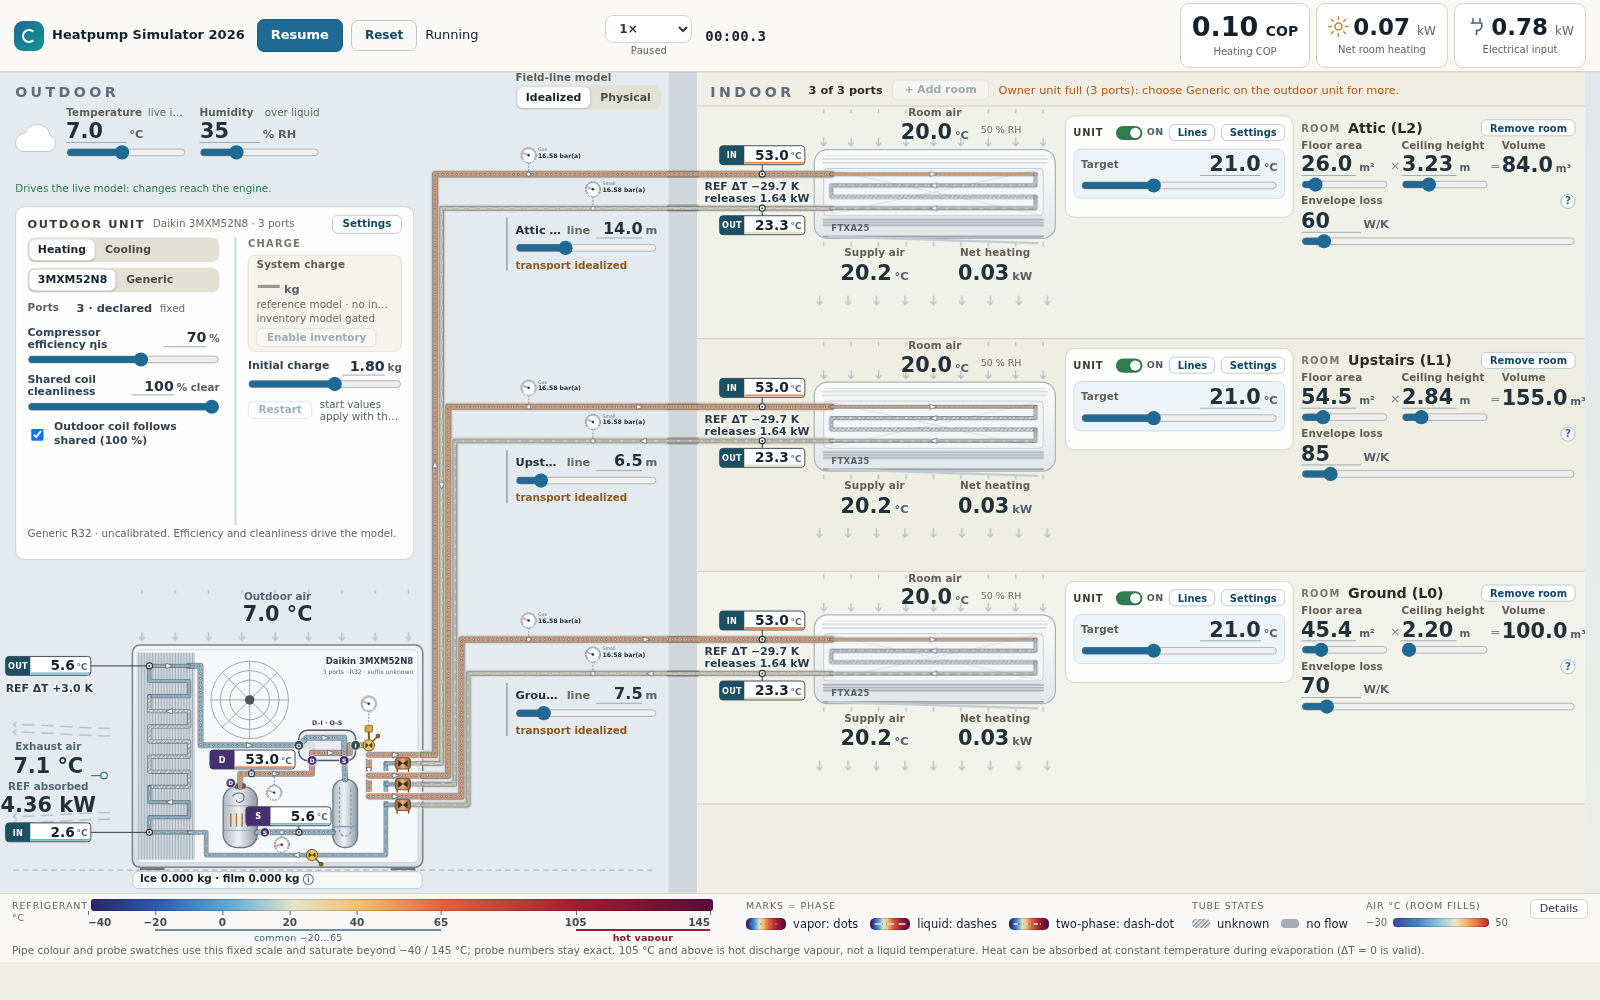
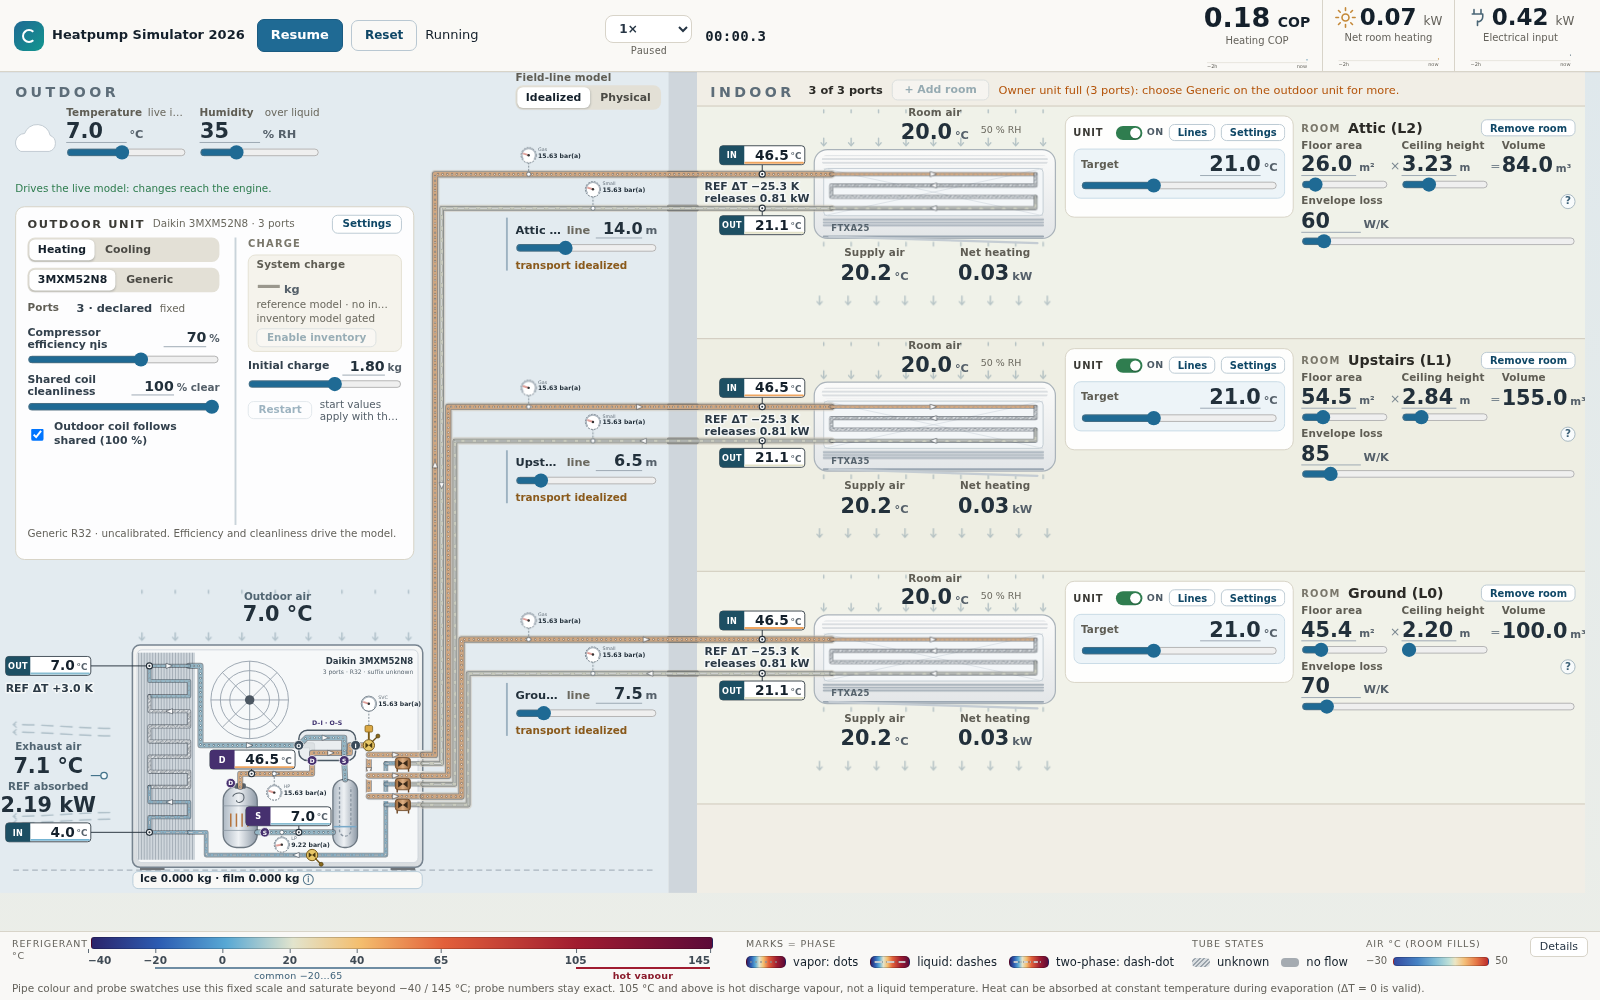
Fix zoom layout, add thermostat restart margin and two-hour metric trends

diff --git a/src/chrome.ts b/src/chrome.ts
@@ -1,7 +1,8 @@
 import { AIR_RAMP_MAX, AIR_RAMP_MIN, TEMP_RAMP_MAX, TEMP_RAMP_MIN, TEMP_RAMP_TICKS, airRampCss, flowMode, tempRampCss } from './circuit';
 import { setHtml } from './controls';
 import type { Field } from './controls';
-import { escapeHtml, fmt, html, setText, svg } from './dom';
+import { escapeHtml, fmt, html, setAttr, setText, svg } from './dom';
+import { TrendHistory } from './trends';
 import { PREVIEW_BANNER, fixtureFor } from './fixtures';
 import { simulation } from './runtime/view';
 import { ICE_START_KG, currentReadings, liveStatus, store } from './state';
@@ -63,6 +64,8 @@ function pick<T extends string | number>(o: {
 }
 
 export function createHeader(): Header {
+  const history = new TrendHistory();
+  let historyEpoch = store.resetEpoch;
   const fields: Field[] = [];
   const speed = pick<SpeedFactor>({
     label: 'Requested speed',
@@ -87,11 +90,16 @@ export function createHeader(): Header {
   const time = html('output', { class: 'time', 'aria-label': 'Simulation time' }, '00:00.0');
 
   // Headline readings: label below value, fixed-width cells so the header does not reflow as numbers change.
-  const metric = (unit: string | null): { root: HTMLElement; k: HTMLElement; v: HTMLElement } => {
+  const metric = (unit: string | null) => {
     const k = html('span', { class: 'k' }, '');
     const v = html('b', { class: 'v' }, '—');
-    const root = html('div', { class: 'hm' }, k, html('span', { class: 'vl' }, v, ...(unit ? [html('i', {}, unit)] : [])));
-    return { root, k, v };
+    const trendTitle = svg('title', {}, 'Last 2 hours of simulated time; latest reading in each 10-second bin; no history yet');
+    const trendPath = svg('path', { class: 'trend-line', d: '' });
+    const trend = svg('svg', { class: 'hm-trend', viewBox: '0 0 112 22', role: 'img', 'aria-label': 'Last 2 hours of simulated time' },
+      trendTitle, svg('path', { class: 'trend-baseline', d: 'M1 15H111' }), trendPath,
+      svg('text', { x: 1, y: 21, class: 'trend-time' }, '−2h'), svg('text', { x: 111, y: 21, 'text-anchor': 'end', class: 'trend-time' }, 'now'));
+    const root = html('div', { class: 'hm' }, k, html('span', { class: 'vl' }, v, ...(unit ? [html('i', {}, unit)] : [])), trend);
+    return { root, k, v, trend, trendTitle, trendPath };
   };
   const mCop = metric('COP');
   mCop.root.classList.add('hm-cop');
@@ -138,8 +146,24 @@ export function createHeader(): Header {
 
       sun.style.display = s.cfg.mode === 'heating' ? '' : 'none';
       snow.style.display = s.cfg.mode === 'cooling' ? '' : 'none';
+      metrics.dataset.mode = s.cfg.mode;
       note.hidden = live && s.ui.experience === 'live' && currentReadings(s).live?.usable === true && currentReadings(s).live?.kind !== 'updating';
       const rd = currentReadings(s);
+      const cleared = historyEpoch !== store.resetEpoch;
+      if (cleared) { history.clear(); historyEpoch = store.resetEpoch; }
+      const output = simulation.status.output;
+      const accepted = live && simulation.status.state === 'ready' && output && output.state !== 'fault';
+      const changed = accepted ? history.accept(output.simulatedSeconds, [rd.cop, rd.roomKwTotal, rd.electricalKw], s.cfg.mode) : false;
+      for (const [i, m] of [mCop, mHeat, mElec].entries()) {
+        if (cleared || changed || !live || !m.trend.dataset.source || m.trend.dataset.source !== s.ui.experience) {
+          const plot = history.plot(i as 0 | 1 | 2);
+          setAttr(m.trendPath, 'd', live ? plot.path : '');
+          setText(m.trendTitle, live
+            ? `${i === 0 ? rd.copLabel : i === 1 ? rd.roomKwLabel : 'Electrical input'}: last 2 hours of simulated time, latest reading in each 10-second bin. ${plot.count ? `Scale ${fmt(plot.minimum, 2)}…${fmt(plot.maximum, 2)} ${i === 0 ? 'COP' : 'kW'}.` : 'No accepted history yet.'} Missing readings are gaps.`
+            : 'Illustrative snapshot; no simulated history.');
+          m.trend.dataset.source = s.ui.experience;
+        }
+      }
       setText(mCop.k, rd.copLabel);
       setText(mHeat.k, rd.roomKwLabel);
       setText(mCop.v, rd.cop === null ? '—' : fmt(rd.cop, 2));

diff --git a/src/style.css b/src/style.css
@@ -32,6 +32,7 @@ h2, h3, h4, h5, p, ul, dl { margin: 0; }
 
 /* Header + workbench only: advanced controls live in equipment settings. */
 .app { display: grid; grid-template-rows: var(--h-top) minmax(0, 1fr); height: 100vh; min-height: 720px; min-width: 1280px; overflow: hidden; }
+.workbench { display: grid; min-width: 0; min-height: 0; }
 
 /* ---------- top bar ---------- */
 /* One light header: brand, playback/status group, headline readings. */
@@ -54,21 +55,28 @@ h2, h3, h4, h5, p, ul, dl { margin: 0; }
 .hd-reset { padding: 5px 10px; font-size: 12px; }
 
 /* Headline readings: fixed cells so changing digits never move neighbouring controls. */
-.hd-metrics { display: flex; gap: 6px; flex: none; }
- .hm { display: flex; flex-direction: column; align-items: center; justify-content: center; gap: 3px; width: 132px; padding: 7px 10px; border-radius: 9px; background: #fff; border: 1px solid var(--line); min-width: 0; }
+.hd-metrics { display: flex; align-self: stretch; flex: none; }
+.hm { display: flex; flex-direction: column; align-items: center; justify-content: center; gap: 1px; width: 132px; padding: 2px 10px; min-width: 0; }
+.hm + .hm { border-left: 1px solid var(--line); }
 .hm:first-child { width: 130px; }
 .hm .vl { display: flex; order: 0; align-items: baseline; gap: 4px; white-space: nowrap; }
 .hm .v { font: 750 23px/1.15 var(--font); font-variant-numeric: tabular-nums; }
 .hm i { font-size: 12px; }
 .hm-cop .v { font-size: 27px; font-weight: 850; }
 .hm-cop i { font-size: 14px; font-weight: 750; color: var(--ink); }
-.hm .k { order: 1; font-size: 10px; color: var(--muted); white-space: nowrap; }
+.hm .k { order: 1; max-width: 100%; font-size: 10px; color: var(--muted); white-space: nowrap; overflow: hidden; text-overflow: ellipsis; }
 .hm-icon { align-self: center; flex: none; width: 21px; height: 21px; fill: none; stroke: currentColor; stroke-width: 1.8; stroke-linecap: round; stroke-linejoin: round; color: #496575; }
 .hm-sun { color: #c48837; }
 .hm-snow { color: #4b8bab; }
 /* Held = previous calculated step shown while new inputs wait for the next step. */
-.hd-metrics[data-held="1"] .hm { border-style: dashed; background: #f6f9fb; }
 .hd-metrics[data-held="1"] .v { color: var(--muted); }
+.hm-trend { display: block; width: 100%; height: 20px; flex: none; overflow: visible; order: 2; }
+.hm-trend .trend-baseline { stroke: #d8d4c9; stroke-width: .6; }
+.hm-trend .trend-time { font: 5.5px var(--font); fill: var(--muted); }
+.hm-trend .trend-line { fill: none; stroke: #1f6a94; stroke-width: 1.3; stroke-linejoin: round; stroke-linecap: round; }
+.hm:nth-child(2) .trend-line { stroke: #c48837; }
+.hd-metrics[data-mode="cooling"] .hm:nth-child(2) .trend-line { stroke: #4b8bab; }
+.hm:nth-child(3) .trend-line { stroke: #496575; }
 
 .hd-status { flex: none; width: 172px; display: flex; flex-direction: column; gap: 4px; }
 .hd-badges { display: flex; min-width: 0; }
@@ -270,6 +278,7 @@ select { width: 100%; padding: 6px 8px; border: 1px solid var(--line); border-ra
 .scene[data-zoom="outdoor"] .dl { opacity: 1; }
 .scene[data-zoom="rooms"] .room .dl { opacity: 1; }
 .scene[data-zoom^="room:"] .room .dl { opacity: 1; }
+.taps .g-val, .taps .g-tag { opacity: 1; }
 [data-zoom-target] { cursor: zoom-in; }
 [data-zoom-target]:focus-visible { outline: none; }
 .zone-out:focus-visible, .zone-in:focus-visible { stroke: var(--focus); stroke-width: 2; }

diff --git a/src/trends.ts b/src/trends.ts
@@ -1,0 +1,44 @@
+export type TrendValues = readonly [number | null, number | null, number | null];
+interface Sample { seconds: number; values: TrendValues; series: string }
+
+/** Accepted physical time only. One latest reading per ten-second bin bounds the two-hour history. */
+export class TrendHistory {
+  readonly windowSeconds = 7200;
+  readonly sampleSeconds = 10;
+  private samples: Sample[] = [];
+  private latest = -Infinity;
+
+  clear(): void { this.samples = []; this.latest = -Infinity; }
+
+  accept(seconds: number, values: TrendValues, series: string): boolean {
+    if (!Number.isFinite(seconds) || seconds < 0 || seconds <= this.latest) return false;
+    this.latest = seconds;
+    const clean = (v: number | null): number | null => v !== null && Number.isFinite(v) ? v : null;
+    const sample: Sample = { seconds, values: [clean(values[0]), clean(values[1]), clean(values[2])], series };
+    const last = this.samples.at(-1);
+    if (last && Math.floor(last.seconds / this.sampleSeconds) === Math.floor(seconds / this.sampleSeconds)) {
+      this.samples[this.samples.length - 1] = sample;
+    } else this.samples.push(sample);
+    this.samples = this.samples.filter(s => s.seconds >= seconds - this.windowSeconds);
+    return true;
+  }
+
+  plot(index: 0 | 1 | 2): { path: string; minimum: number; maximum: number; count: number } {
+    const values = this.samples.map(s => s.values[index]).filter((v): v is number => v !== null);
+    const minimum = Math.min(0, ...values), maximum = Math.max(1, ...values);
+    let path = '', previous: Sample | null = null;
+    for (const sample of this.samples) {
+      const value = sample.values[index];
+      if (value === null) { previous = null; continue; }
+      const x = 1 + 110 * (sample.seconds - (this.latest - this.windowSeconds)) / this.windowSeconds;
+      const y = 14 - 12 * (value - minimum) / (maximum - minimum);
+      // A missing bin or different operating mode has no fabricated connecting segment.
+      const connected = previous && previous.series === sample.series && sample.seconds - previous.seconds <= 2 * this.sampleSeconds;
+      const position = `${x.toFixed(2)} ${y.toFixed(2)}`;
+      path += `${connected ? 'L' : 'M'}${position}`;
+      if (!connected) path += `L${position}`; // a round-capped point also shows very short histories
+      previous = sample;
+    }
+    return { path, minimum, maximum, count: values.length };
+  }
+}

diff --git a/src/engine/engine.ts b/src/engine/engine.ts
@@ -2,6 +2,7 @@ import { Properties, DomainError } from './properties.ts';
 import { solveCycle } from './cycle.ts';
 import { ChargeCircuit, type ChargeCandidate, type ChargeBoundary, type ChargeNumerics } from './charge.ts';
 import { driveStep, driveRatioThresholds, newDriveState, type DriveState } from './drive.ts';
+import { thermostatDemand } from './thermostat.ts';
 import { inventoryCycle } from './charge-output.ts';
 import { airExchange, equilibrateExhaust } from './air.ts';
 import { deriveOutdoorFilm, filmEnthalpy, FUSION_JKG, WATER_CP_JKGK } from './film.ts';
@@ -168,7 +169,7 @@ export class HeatPumpEngine {
     const tRooms = this.rooms.map(r => this.properties.airT(r.airEnthalpyJ / r.dryAirMassKg, r.humidityRatio, p));
     const previousActive = [...this.active];
     const errors = config.rooms.map((room, i) => config.mode === 'heating' ? room.setpointC - tRooms[i] : tRooms[i] - room.setpointC);
-    this.active = config.rooms.map((room, i) => room.enabled && errors[i] > (this.active[i] ? -config.control.thermostatDeadbandK : config.control.thermostatDeadbandK));
+    this.active = config.rooms.map((room, i) => thermostatDemand(room.enabled, errors[i], this.active[i], config.control.thermostatDeadbandK));
     if (!config.rooms.some(room => room.enabled)) this.abortUnavailableCircuit();
     if (this.state === 'reversing' && this.stateTime >= config.control.reversalSeconds) this.transition(config.mode === 'heating' && before.iceKg > config.control.defrostIceThresholdKg ? 'defrost' : 'idle');
     if (this.state === 'draining' && this.stateTime >= config.control.drainageDwellSeconds) { this.transition('reversing'); this.heatingRuntime = 0; }

diff --git a/src/engine/types.ts b/src/engine/types.ts
@@ -31,7 +31,10 @@ export interface EngineConfig {
   rooms: RoomConfig[];
   compressor: { displacementM3rev: number; speedMinRps: number; speedMaxRps: number; isentropicEfficiency: number; volumetricEfficiency: number; driveEfficiency: number; superheatK: number; subcoolK: number; maxDischargeC: number; maxPressureRatio: number };
   outdoor: { cleanFraction?: number; airMassFlowKgs: number; fanPowerW: number; airConductanceWK: number; refrigerantConductanceWK: number; naturalAirConductanceWK: number; metalCapacityJK: number; depositionAreaM2: number; frostDensityKgm3: number; frostConductivityWmK: number; finGapM: number; drainageSeconds: number };
-  control: { controlsW: number; proportionalSpeedRpsK: number; thermostatDeadbandK: number; minOnSeconds: number; minOffSeconds: number; reversalSeconds: number; defrostMinHeatingSeconds: number; defrostIceThresholdKg: number; defrostMaxSeconds: number; defrostTerminationMetalC: number; drainageDwellSeconds: number; defrostSpeedRps: number };
+  control: { controlsW: number; proportionalSpeedRpsK: number;
+    /** Restart error magnitude; stops at setpoint. Kept under the original config key. */
+    thermostatDeadbandK: number;
+    minOnSeconds: number; minOffSeconds: number; reversalSeconds: number; defrostMinHeatingSeconds: number; defrostIceThresholdKg: number; defrostMaxSeconds: number; defrostTerminationMetalC: number; drainageDwellSeconds: number; defrostSpeedRps: number };
   numerics: { maxStepSeconds: number; pressureToleranceW: number };
 }
 export interface RoomState { dryAirMassKg: number; airEnthalpyJ: number; humidityRatio: number; fabricTemperatureC: number; metalTemperatureC: number }

diff --git a/src/engine/defaults.ts b/src/engine/defaults.ts
@@ -15,7 +15,7 @@ export function defaultEngineConfig(roomCount = 3): EngineConfig {
     outdoor: { airMassFlowKgs: .90, fanPowerW: 85, airConductanceWK: 1100, refrigerantConductanceWK: 1000,
       naturalAirConductanceWK: 35, metalCapacityJK: 28000, depositionAreaM2: 2, frostDensityKgm3: 200,
       frostConductivityWmK: .15, finGapM: .002, drainageSeconds: 30 },
-    control: { controlsW: 15, proportionalSpeedRpsK: 20, thermostatDeadbandK: .15, minOnSeconds: 30, minOffSeconds: 30,
+    control: { controlsW: 15, proportionalSpeedRpsK: 20, thermostatDeadbandK: 1, minOnSeconds: 30, minOffSeconds: 30,
       reversalSeconds: 3, defrostMinHeatingSeconds: 300, defrostIceThresholdKg: .15, defrostMaxSeconds: 600,
       defrostTerminationMetalC: 5, drainageDwellSeconds: 10, defrostSpeedRps: 35 },
     numerics: { maxStepSeconds: .25, pressureToleranceW: .1 } };

diff --git a/src/scene.ts b/src/scene.ts
@@ -375,7 +375,7 @@ function roomPanel(i: number, hooks: SceneHooks, guide: HeatLossGuide): RoomPane
     html('span', { class: 'rp-k' }, 'Volume'), html('span', { class: 'rp-line' }, volumeV, html('small', {}, 'm³')));
   const sep = (glyph: string): HTMLElement => html('span', { class: 'env-op', 'aria-hidden': 'true' }, glyph);
   // The card is narrow: the "requested" qualifier lives in the tooltip and the accessible name, not in a clipped note.
-  sp.root.title = 'Requested target temperature; compare it with the measured room air';
+  sp.root.title = 'Stops at the requested target; heating restarts 1 °C below it, cooling 1 °C above it. Minimum run/restart times and compressor protection still apply.';
   const air = readCard('Room air', '°C');
   air.root.className = 'env-read flow-in';
   const sup = readCard('Supply air', '°C');

diff --git a/src/engine/thermostat.ts b/src/engine/thermostat.ts
@@ -1,0 +1,4 @@
+/** error = target − air in heating, air − target in cooling. Explicit Off always wins. */
+export function thermostatDemand(enabled: boolean, errorK: number, active: boolean, restartMarginK: number): boolean {
+  return enabled && (active ? errorK > 0 : errorK > 0 && errorK >= restartMarginK);
+}

diff --git a/README.md b/README.md
@@ -38,6 +38,10 @@ Sonnet 5.5 authored the desktop workbench through local Claude Code. All applica
 
 The workbench provides live heating/cooling, automatic visible frost/defrost, capacity-driven Add/Remove room controls, pipe lengths/diameters, pressure conventions, selectable components, click-to-zoom zones, pause/restart and requested speeds up to 50×. The owner group has three connections; Generic exposes an explicitly assumed port capacity. Larger layouts use vertical scrolling to preserve full-width inlet/outlet streams and readable controls. A global exchanger-cleanliness slider runs from 100% clean to 10% remaining clear passage, with outdoor and individual indoor overrides. Restart applies current initial room temperatures and retains edited configuration.
 
+Zoom and tall-room scrolling stay inside the available workbench height; the temperature/phase legend stays at the viewport bottom. Pressure readings also remain visible in overview. The three headline readings use full-height separators and SVG plots of the last two hours of **simulated time**, retaining the latest accepted reading in each ten-second bin. Plots start empty, show gaps for unavailable values and mode changes, remain unchanged while paused, and clear on Reset. Examples do not fabricate historical readings. Plot scales are automatic, include zero and are stated in the plot tooltip.
+
+The generic room thermostat stops at the target and restarts at least **1°C below the heating target or 1°C above the cooling target**. This is the requested simulator policy, not a manufacturer calibration. Existing minimum-on/off times and compressor protection still apply; explicit indoor Off overrides the thermostat immediately. The engine's existing `thermostatDeadbandK` configuration key now represents the restart margin.
+
 A single header groups Pause, Reset and operating status together. Bold inline COP and electrical/useful-output power retain small labels below, with vector plug and sun/snowflake symbols. Measurements and common controls live on the diagram; source selection and unique model diagnostics live in the outdoor unit settings. Speed uses a compact dropdown. Click the outdoor or indoor zone, or a room, to zoom; use Zoom out or Escape to return. Outdoor fans use a static grille and indoor heads show a horizontal outlet with slats. Indoor coils span almost the full casing width with a 5% right-side margin. Room-air temperature sits in the inlet streams; supply temperature and net heating/cooling power sit in the outlet streams, directly on the background. Vector airflow exits the outdoor unit to the left and indoor units downwards, with plain outdoor inlet/exhaust-air temperatures and refrigerant coil heat beside the leftward exhaust. Flow lines leave gaps around the values. Room volume is calculated from floor area and ceiling height (2.2–6 m); the envelope-loss help retains the supplied era bands with their unknown reference size clearly identified. Airflow cues follow actual fan operation; mechanical blade rotation is omitted.
 
 In Examples, readings come from explicitly constructed R32 fixtures. Changing configuration does not recalculate heat, COP, pressures or outlet temperatures. Only the illustrative preview clock and ice→retained-liquid ledger advance.

diff --git a/PROGRESS.md b/PROGRESS.md
@@ -1,6 +1,6 @@
 # Project progress
 
-Updated 2026-10-10. This is the current implementation checkpoint; detailed evidence remains in `reviews/` and `research/`.
+Updated 2026-10-11. This is the current implementation checkpoint; detailed evidence remains in `reviews/` and `research/`.
 
 ## Completed and verified
 
@@ -19,6 +19,8 @@ Updated 2026-10-10. This is the current implementation checkpoint; detailed evid
 - Published the owner-authorized public repository at https://github.com/AnnoyingTechnology/heatpump-simulator and the HTTPS site at https://annoyingtechnology.github.io/heatpump-simulator/. GitHub Actions installs the lockfile, checks/builds, runs **35 released-model/property checks**, and deploys `dist/` on pushes to `main`. First deployment of `084f292` succeeded; all four hosted-browser checks passed, including real worker/sensors, paused weather/individual-unit edits, resumed accelerated time and error-free asset/runtime loading. Deployed WASM exactly matches the verified local artifact. Evidence: `reviews/github-pages-deployment.json` and `reviews/github-pages-browser-results.json`.
 
 - **Reference stability fixed and deployed:** generic inverter protection preserves state; idealized parallel indoor condensers use actual mixed outlets; outdoor fog conserves heat/water; defrost retains its configured startup command. Independent source review accepted unchanged hard/residual limits. GitHub run `38082400611` passed **45/45** and deployed `ce9d221`. Four hosted-browser checks passed with matching application/worker/WASM artifacts. The owner's attic-Off, −0.5°C, ground17.5°C/upstairs22.5°C configuration passed **600.7 physical seconds at requested 5×** on the hosted site, without fault/reset/runtime error; local browser endurance previously passed 1204.25 s. Original humidity and exact307s fault checkpoint remain unknown; owner tests use 35% RH. Cold 0°C / 99% RH also completed natural melt/drain/heating return to 600 s. Fault display retains accepted temperatures/time. Evidence: `reviews/github-pages-stability-deployment.json`, `reviews/reference-stability-regression-results.json`, `reviews/reference-stability-science-review.md` and `research/reference-fog-continuation.json`.
+
+- **Zoom, thermostat and headline trends:** constrained the workbench height so the legend stays at the bottom during zoom/scroll/resize; exterior pressure values remain visible in overview. Replaced headline card borders with full-height separators and added bounded two-hour SVG histories using accepted simulated time. The requested generic thermostat stops at target and restarts 1°C below/above it for heating/cooling, with existing dwell/protection. Local guarded regression passed **47/47**, history checks **2/2**, desktop zoom/history checks **4/4** across 1/3/5/8 rooms and 1280×720 through 1920×1080, existing navigation checks **10/10**, and built subdirectory startup passed. Evidence: `reviews/zoom-thermostat-regression-results.json` and `reviews/zoom-trends-browser-results.json`.
 
 ## In progress
 
